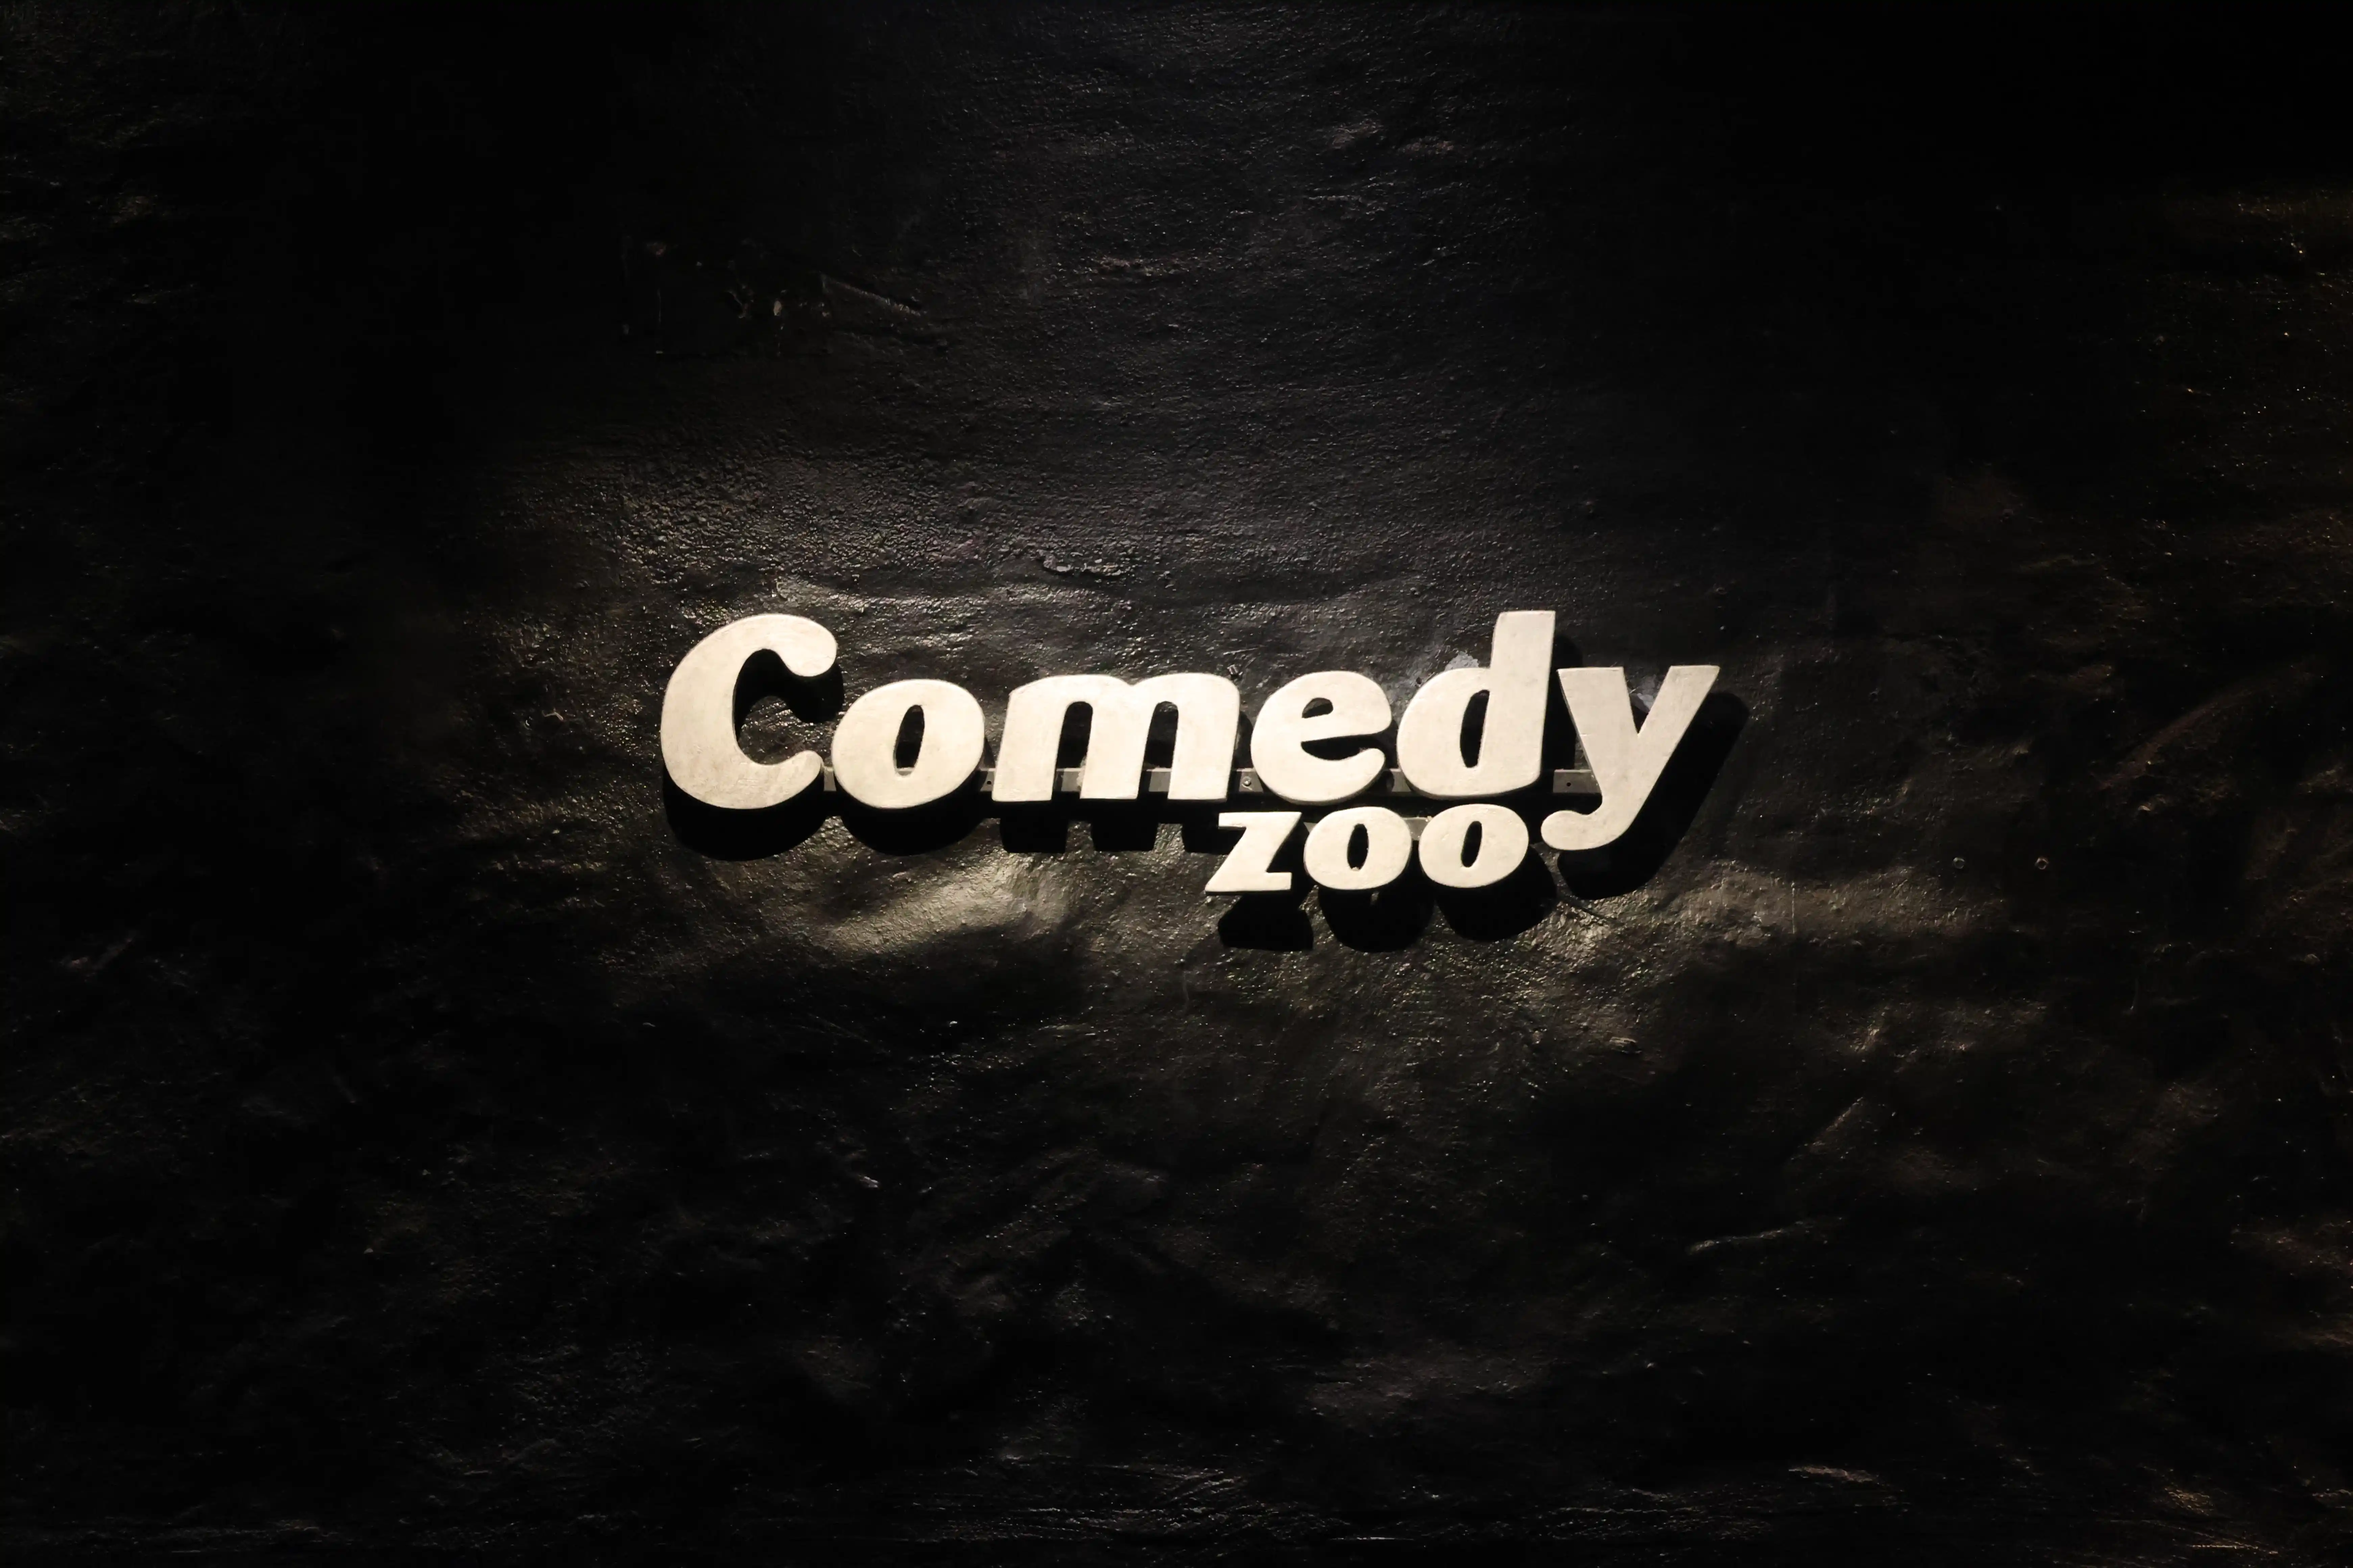
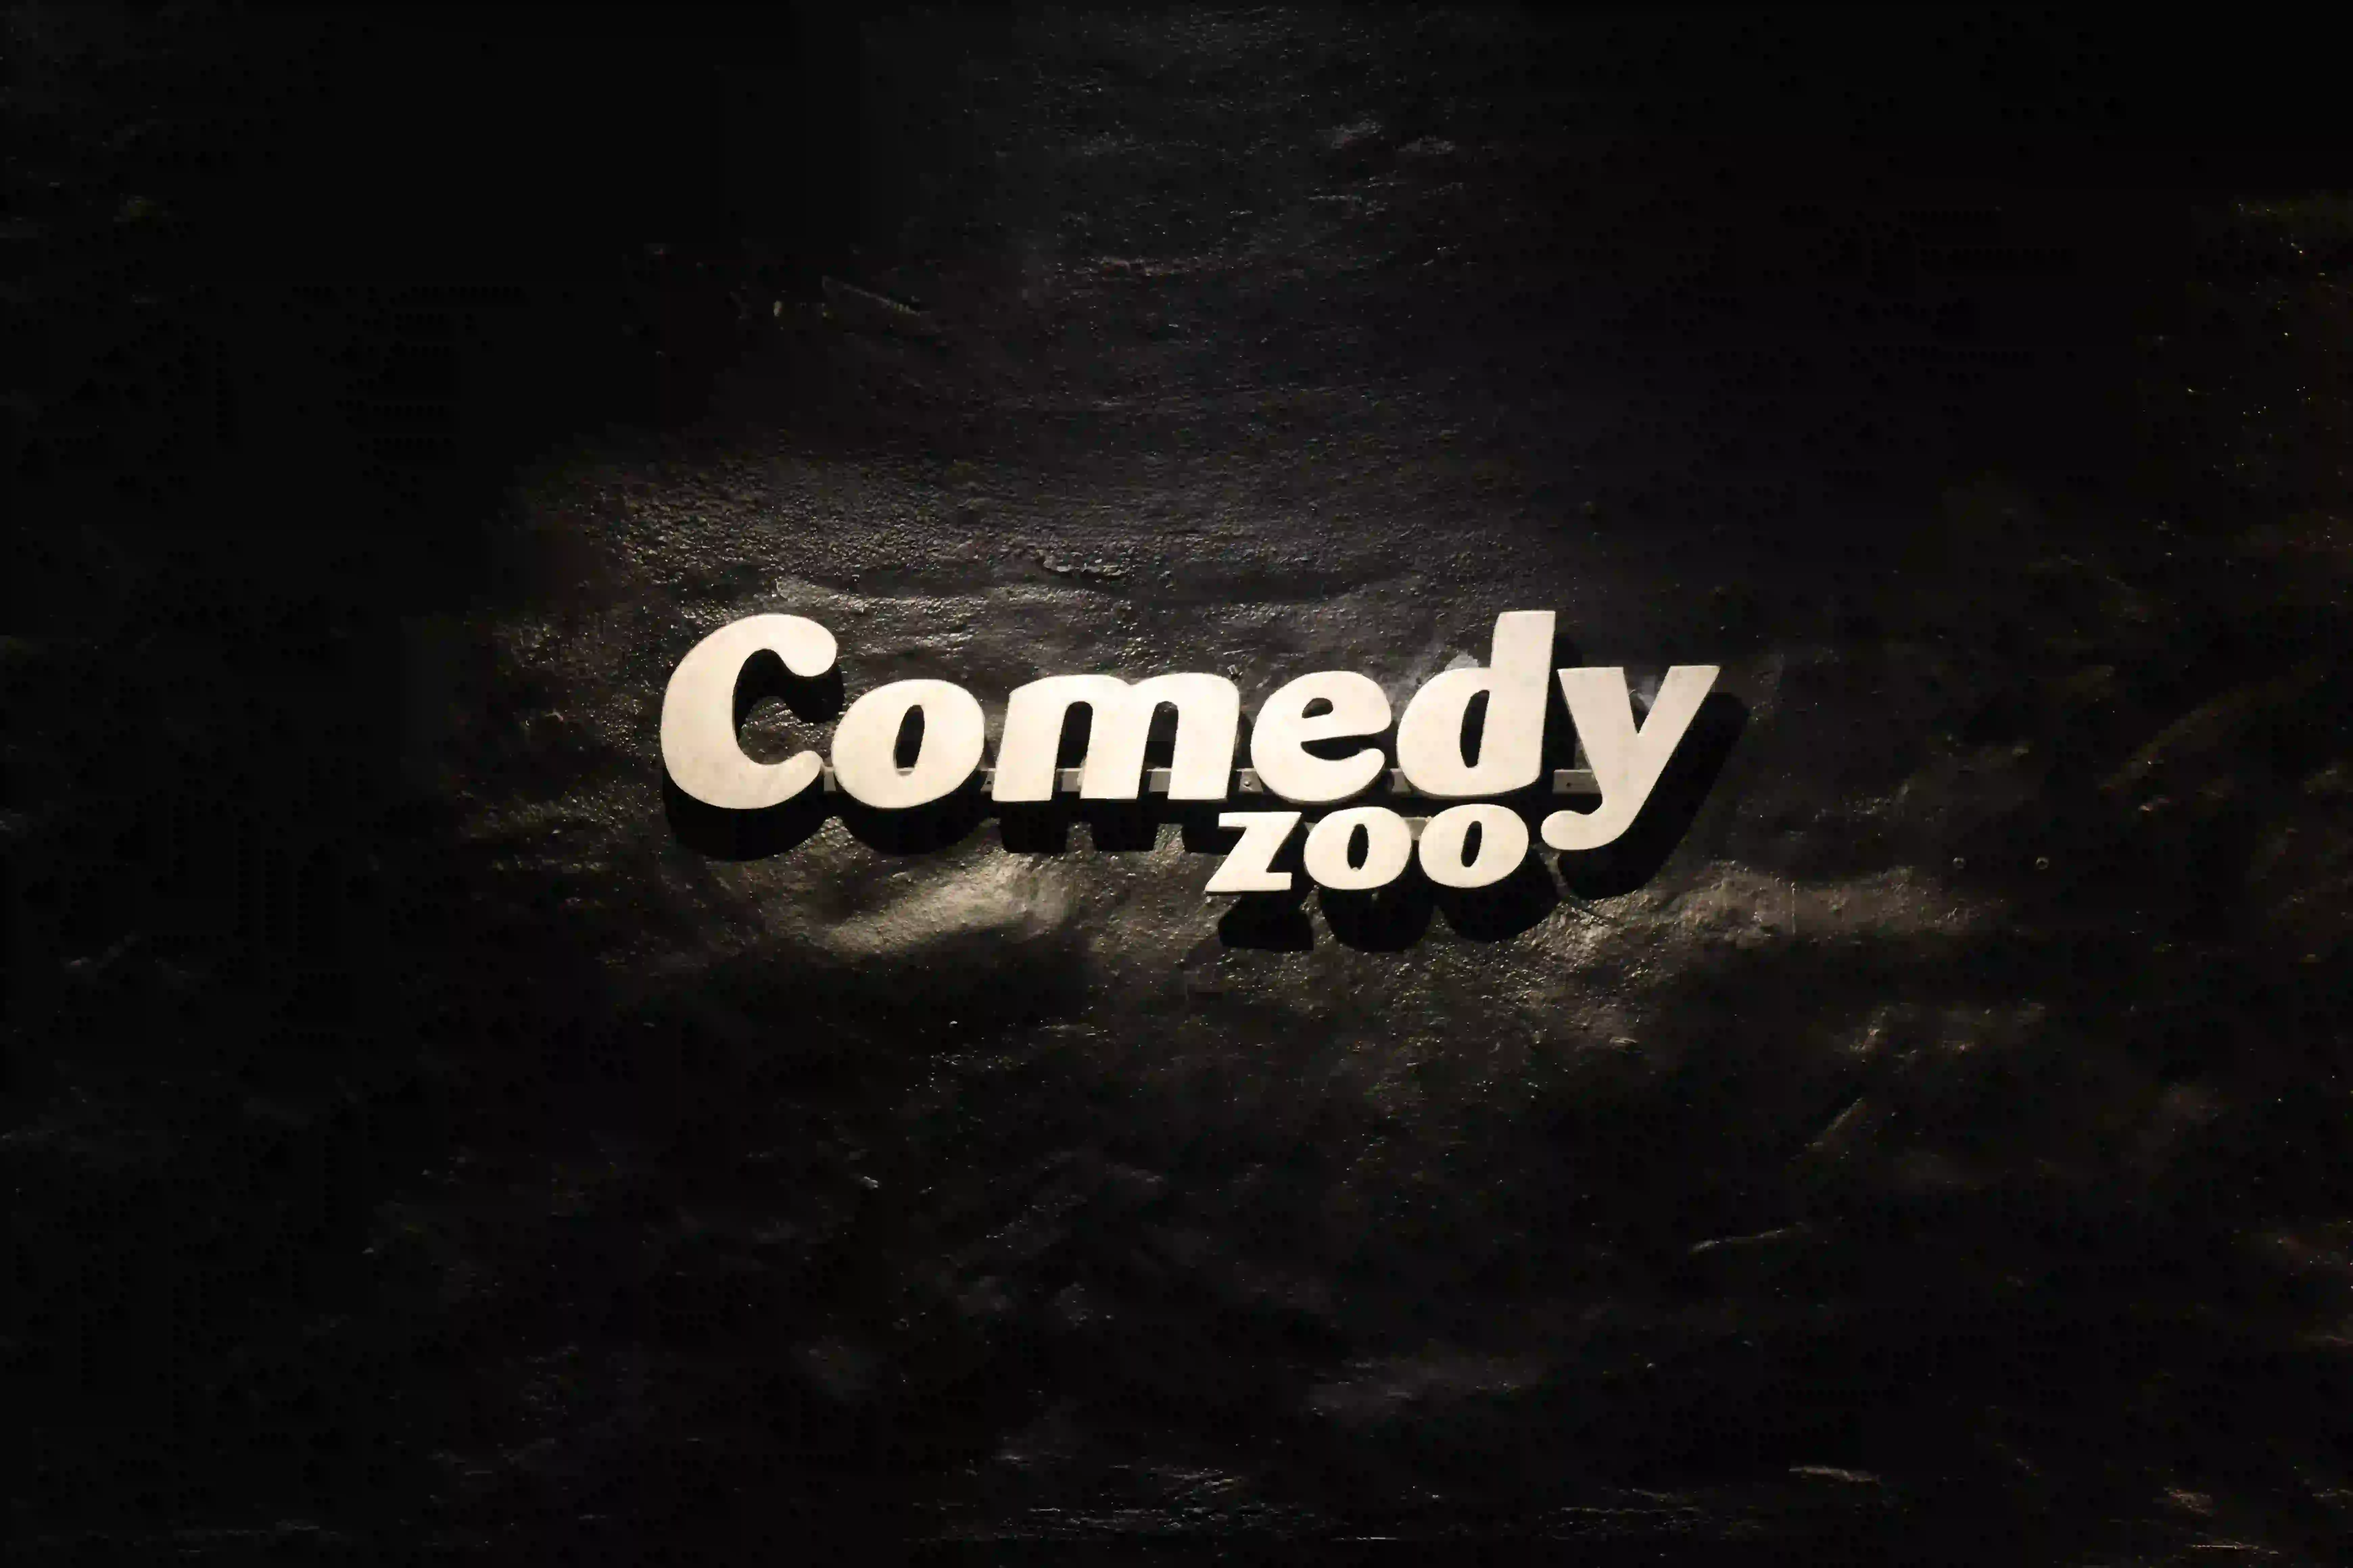
billeder kompri

diff --git a/info.html b/info.html
@@ -79,7 +79,7 @@
               menuen + bordbestilling finder du her: odette.dk/comsedyzoo/
             </p>
           </div>
-          <div><img class="bord" src="img/Odette.png" alt="" /></div>
+          <div><img class="bord" src="img/Odette.webp" alt="" /></div>
         </div>
         <div class="grid_2-1">
           <div class="tekst">

diff --git a/index.html b/index.html
@@ -192,7 +192,7 @@
               <a class="knap_laes_mere" href="info.html">LÆS MERE</a>
             </div>
           </div>
-          <img src="img/sal.png" alt="billede fra salen" />
+          <img src="img/sal.webp" alt="billede fra salen" />
         </div>
       </section>
     </main>
